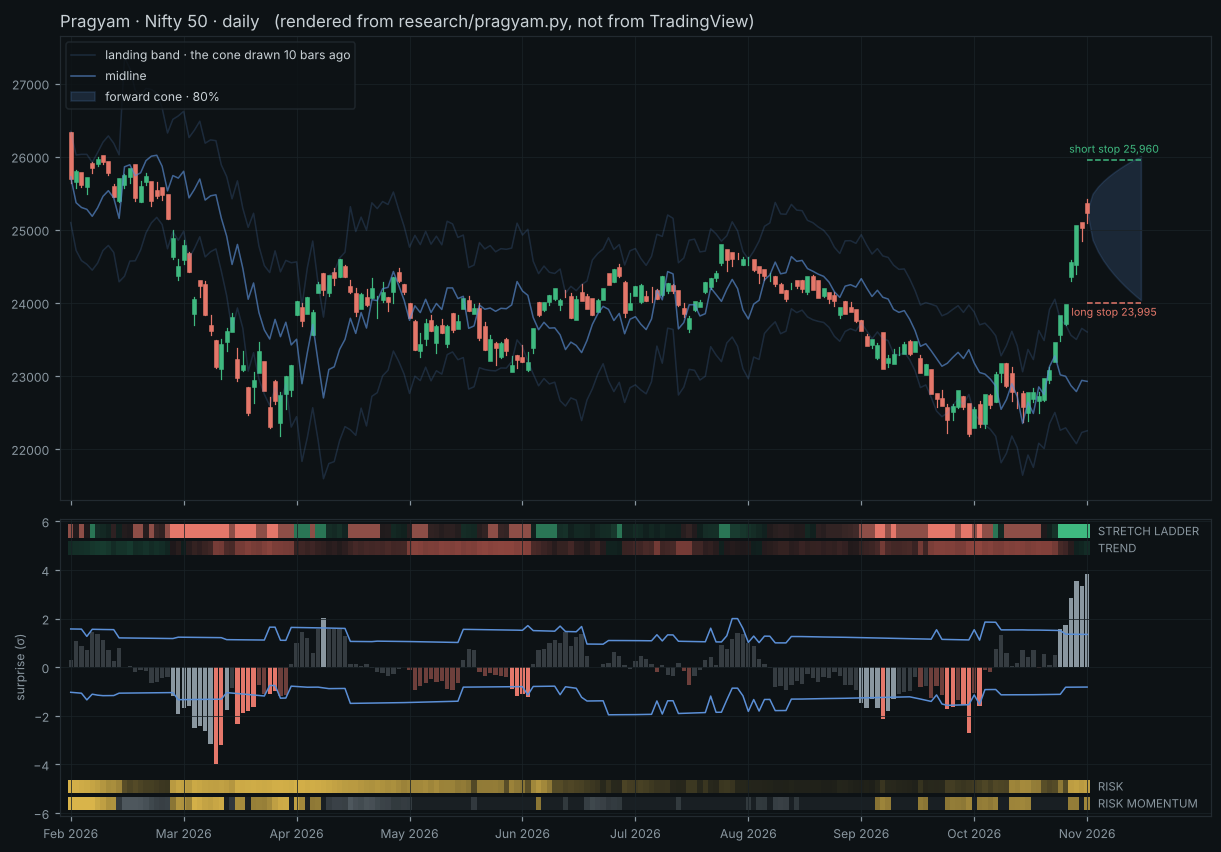
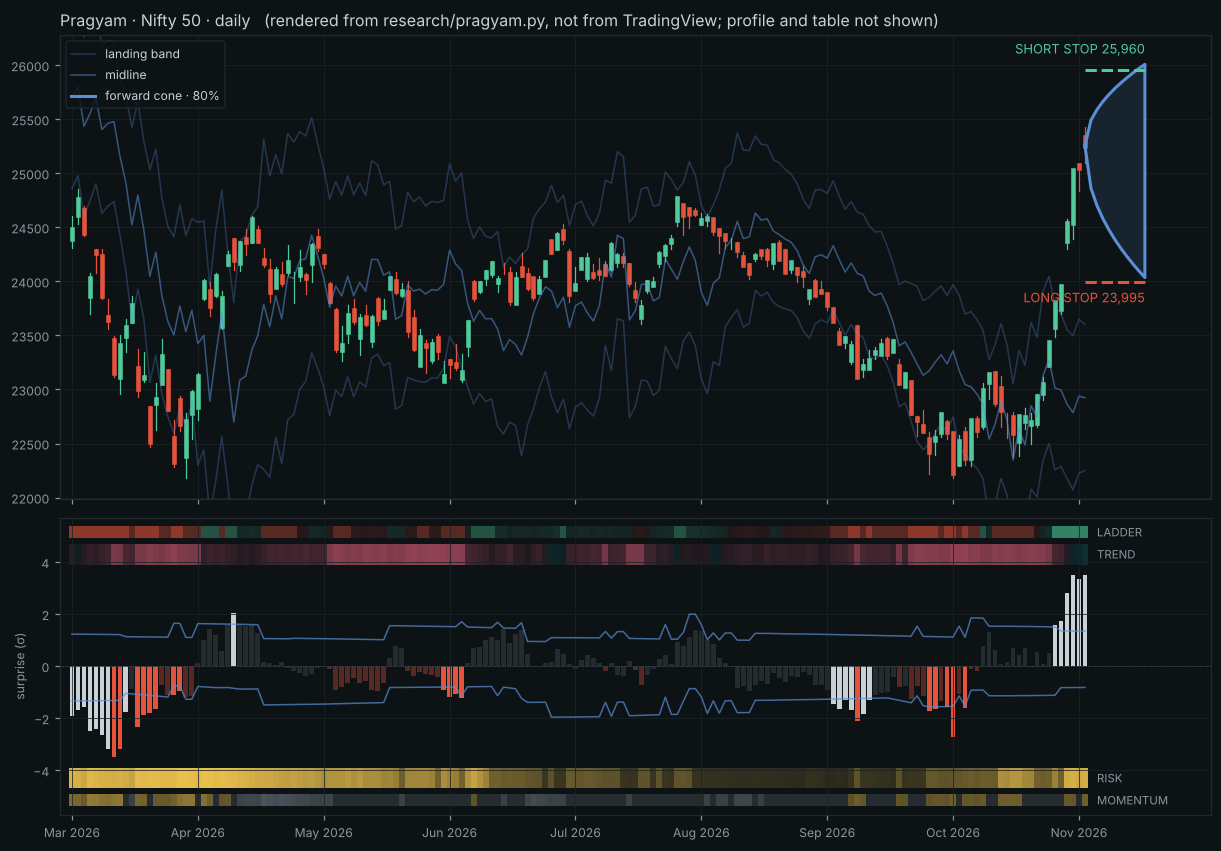
Pragyam v2.5: UI audit, part 2 - the colour system
From the colour-system review (WCAG contrast, CIEDE2000 under normal,
deutan and protan vision):

- Trend tape has its own hues - teal up, crimson down. Its former deep
  green/red could not be told from fainter bright ones on the adjacent
  ladder tape, because tone and transparency used the same channel.
- Green and red re-chosen to differ in lightness as well as hue, so they
  hold under red-green colour blindness; gold moved away from both.
- The volume profile is one grey family told apart by lightness (POC
  strongest, value area mid, tails faint). Its blue was byte-identical to
  the cone's and its amber POC sat on the risk gold. VWAP stays rose.
- One transparency ladder everywhere: 0 solid, 40 committed, 65 quiet,
  80 faint, 90 warming (always grey).
- A flat trend is grey in text; the proof's exposure line is no longer
  drawn in the cone's blue; faint lines raised above the point where they
  vanished.

Header, README and preview updated to the audited design. No engine
number changed. Not compiled in TradingView.

Claude-Session: https://claude.ai/code/session_016ViFoTstK1H2EPMC9V8JSo

diff --git a/research/preview.py b/research/preview.py
@@ -1,4 +1,4 @@
-"""Draws what pragyam.pine draws, from the reference implementation.  python3 preview.py"""
+"""Draws what pragyam.pine draws, from the reference implementation (the volume profile and table are not drawn).  python3 preview.py"""
 from lib import *
 from pragyam import run
 import warnings; warnings.filterwarnings("ignore")
@@ -6,11 +6,13 @@ import matplotlib; matplotlib.use("Agg")
 import matplotlib.pyplot as plt
 from matplotlib.colors import to_rgba
 D = load(); H = 10
-BG, FG, CONE, UP, DN, NE, GOLD, UPD, DND = "#0D1215", "#C9D1D6", "#5B8FD6", "#3FB980", "#E4776A", "#8A97A0", "#D9B44A", "#2A8660", "#B4554B"
-def grad(x, a, b, c, ta, tb):                                              # colour c, transparency ta -> tb as x runs a -> b (Pine's from_gradient)
-    f = min(max((x - a) / (b - a), 0), 1); return to_rgba(c, 1 - (ta + (tb - ta) * f) / 100)
+BG, TEXT, CONE, UP, DN, UPD, DND, NE, GOLD = "#0D1215", "#C9D1D6", "#5B8FD6", "#4FCB9B", "#E5533C", "#1A9498", "#B85068", "#8A97A0", "#F0C54E"   # the script's dark palette
+SOLID, FIRM, QUIET, FAINT, WARM = 0, 40, 65, 80, 90                                                                                      # its transparency ladder
+CLIP, TY, TH, OY, OH = 3.5, 4.3, 0.40, 5.15, 0.22
+def tr(c, t): return to_rgba(c, 1 - t / 100)
+def grad(x, a, b, c, ta, tb): f = min(max((x - a) / (b - a), 0), 1); return tr(c, ta + (tb - ta) * f)
 for sym, title in (("_NSEI", "Nifty 50 · daily"), ("AAPL", "Apple · daily")):
-    cls, d = D[sym]; R = run(d); n = 190; d2, R2 = d.iloc[-n:], R.iloc[-n:]; x = np.arange(n)
+    cls, d = D[sym]; R = run(d); n = 170; d2, R2 = d.iloc[-n:], R.iloc[-n:]; x = np.arange(n)
     fig, ax = plt.subplots(2, 1, figsize=(13.5, 9.2), sharex=True, gridspec_kw=dict(height_ratios=[2.5, 1.6], hspace=0.05), facecolor=BG)
     for a in ax:
         a.set_facecolor(BG); a.tick_params(colors=NE, labelsize=8); [s.set_color("#222a30") for s in a.spines.values()]; a.grid(color="#1a2227", lw=0.5)
@@ -18,28 +20,34 @@ for sym, title in (("_NSEI", "Nifty 50 · daily"), ("AAPL", "Apple · daily")):
     for i in range(n):
         o, h, l, c = d2.open.iloc[i], d2.high.iloc[i], d2.low.iloc[i], d2.close.iloc[i]; col = UP if c >= o else DN
         a.plot([i, i], [l, h], color=col, lw=0.8); a.plot([i, i], [min(o, c), max(o, c)], color=col, lw=3)
-    a.plot(x, R.upper.shift(H).iloc[-n:], color=CONE, lw=1, alpha=.2, label="landing band · the cone drawn 10 bars ago"); a.plot(x, R.lower.shift(H).iloc[-n:], color=CONE, lw=1, alpha=.2)
-    a.plot(x, ((R.upper.shift(H) + R.lower.shift(H)) / 2).iloc[-n:], color=CONE, lw=1, alpha=.65, label="midline")
-    c, sg, qu, qd = d2.close.iloc[-1], R2.sig.iloc[-1], R2.qU.iloc[-1], R2.qD.iloc[-1]; j = np.arange(H + 1)
-    a.fill_between(n - 1 + j, c * np.exp(-qd * sg * np.sqrt(j)), c * np.exp(qu * sg * np.sqrt(j)), color=CONE, alpha=.18, label="forward cone · 80%")
-    a.plot([n - 1, n - 1 + H], [R2.stopL.iloc[-1]] * 2, color=DN, ls="--", lw=1); a.plot([n - 1, n - 1 + H], [R2.stopS.iloc[-1]] * 2, color=UP, ls="--", lw=1)
-    a.text(n - 1 + H / 2, R2.stopS.iloc[-1], f"short stop {R2.stopS.iloc[-1]:,.0f}\n", color=UP, fontsize=7, ha="center", va="bottom", linespacing=.5); a.text(n - 1 + H / 2, R2.stopL.iloc[-1], f"\nlong stop {R2.stopL.iloc[-1]:,.0f}", color=DN, fontsize=7, ha="center", va="top", linespacing=.5)
-    a.legend(loc="upper left", fontsize=8, facecolor=BG, edgecolor="#222a30", labelcolor=FG); a.set_title(f"Pragyam · {title}   (rendered from research/pragyam.py, not from TradingView)", color=FG, fontsize=11, loc="left")
-    a = ax[1]; ts = np.where(R2["T"] > .5, 2, np.where(R2["T"] < -.5, 0, 1)); wth = ((R2.u >= 0) & (ts == 2)) | ((R2.u < 0) & (ts == 0)); tr = np.where(wth, np.where(R2.u >= 0, UP, DN), NE); out = ((R2.mU == 1) | (R2.mD == 1)).values; uu = R2.u.clip(-4, 4)
-    a.bar(x[~out & wth.values], uu[~out & wth.values], color=tr[~out & wth.values], alpha=.45); a.bar(x[~out & ~wth.values], uu[~out & ~wth.values], color=NE, alpha=.32); a.bar(x[out], uu[out], color=tr[out])
-    a.plot(x, R.qU.shift(H).iloc[-n:], color=CONE, lw=1); a.plot(x, -R.qD.shift(H).iloc[-n:], color=CONE, lw=1)
-    TY, MY, TH = 4.9, 5.6, 0.28
+    up_, lo_ = R.upper.shift(H).iloc[-n:], R.lower.shift(H).iloc[-n:]
+    a.plot(x, up_, color=tr(CONE, 70), lw=1, label="landing band"); a.plot(x, lo_, color=tr(CONE, 70), lw=1); a.plot(x, (up_ + lo_) / 2, color=tr(CONE, 45), lw=1, label="midline")
+    c, sg, qu, qd = d2.close.iloc[-1], R2.sig.iloc[-1], R2.qU.iloc[-1], R2.qD.iloc[-1]; j = np.arange(H + 1); x0 = n - 1
+    a.fill_between(x0 + j, c * np.exp(-qd * sg * np.sqrt(j)), c * np.exp(qu * sg * np.sqrt(j)), color=tr(CONE, 86), lw=0)
+    a.plot(np.r_[x0 + j, (x0 + j)[::-1], x0], np.r_[c * np.exp(qu * sg * np.sqrt(j)), (c * np.exp(-qd * sg * np.sqrt(j)))[::-1], c], color=CONE, lw=2, label="forward cone · 80%")
+    sl, ss = R2.stopL.iloc[-1], R2.stopS.iloc[-1]; top, bot = max(ss, R2.upper.iloc[-1]), min(sl, R2.lower.iloc[-1])
+    a.plot([x0, x0 + H], [sl, sl], color=DN, ls="--", lw=2); a.plot([x0, x0 + H], [ss, ss], color=UP, ls="--", lw=2)
+    a.annotate(f"SHORT STOP {ss:,.0f}", (x0 + H, top), xytext=(0, 5), textcoords="offset points", color=UP, fontsize=8.5, ha="right", va="bottom")
+    a.annotate(f"LONG STOP {sl:,.0f}", (x0 + H, bot), xytext=(0, -5), textcoords="offset points", color=DN, fontsize=8.5, ha="right", va="top")
+    a.legend(loc="upper left", fontsize=8, facecolor=BG, edgecolor="#222a30", labelcolor=TEXT)
+    a.set_title(f"Pragyam · {title}   (rendered from research/pragyam.py, not from TradingView; profile and table not shown)", color=TEXT, fontsize=10.5, loc="left")
+    lo, hi = min(d2.low.min(), bot), max(d2.high.max(), top); a.set_ylim(lo - (hi - lo) * .05, hi + (hi - lo) * .07)
+    a = ax[1]; u = R2.u.values; T = R2["T"].values; bU = R.qU.shift(H).iloc[-n:].values; bD = R.qD.shift(H).iloc[-n:].values; sgH = R.sig.shift(H).iloc[-n:].values
     for i in range(n):
-        T, lx, up, dn, pr, rm = R2["T"].iloc[i], R2.ladX.iloc[i], R2.ladUp.iloc[i], R2.ladDn.iloc[i], R2.prk.iloc[i], np.log(R2.sig.iloc[i] / R.sig.shift(H).iloc[-n:].iloc[i])
-        hue = UPD if T >= 0 else DND; ct = grad(abs(T), 0, .5, hue, 90, 62) if abs(T) < .5 else grad(abs(T), .5, 1.5, hue, 40, 0)
-        if np.isnan(lx): cl = to_rgba(NE, .18)
-        else:
-            hue = UP if lx >= 0 else DN; k = up if lx >= 0 else dn; cl = to_rgba(hue, 1) if k >= 3 else to_rgba(hue, .6) if k >= 1 else grad(abs(lx), 0, 1, hue, 92, 66)
-        cr = to_rgba(NE, .18) if np.isnan(pr) else grad(pr, 0, 100 / 3, GOLD, 95, 86) if pr < 100 / 3 else grad(pr, 200 / 3, 100, GOLD, 40, 0) if pr >= 200 / 3 else grad(pr, 100 / 3, 200 / 3, GOLD, 80, 62)
-        cm = grad(abs(rm), .1, .4, GOLD, 40, 0) if rm > .1 else grad(abs(rm), .1, .4, NE, 72, 48) if rm < -.1 else to_rgba(NE, .10)
-        for yy, cc in ((TY, ct), (MY, cl), (-TY, cr), (-MY, cm)): a.bar(i, 2 * TH, bottom=yy - TH, color=cc, width=1.0)
-    for yy, t in ((MY, "STRETCH LADDER"), (TY, "TREND"), (-TY, "RISK"), (-MY, "RISK MOMENTUM")): a.text(n + 1, yy, t, color=NE, fontsize=7.5, va="center")
-    a.set_ylim(-6.1, 6.1); a.set_ylabel("surprise (σ)", color=NE, fontsize=8); a.set_xlim(-2, n + 22); ax[0].set_xlim(-2, n + 22)
+        if not np.isnan(u[i]):                                             # columns: opacity is the event, hue is whether the trend backs it
+            ts = 2 if T[i] > .5 else 0 if T[i] < -.5 else 1; wth = (u[i] >= 0 and ts == 2) or (u[i] < 0 and ts == 0); out = R2.mU.iloc[i] or R2.mD.iloc[i]; hue = (UP if u[i] >= 0 else DN) if wth else NE
+            a.bar(i, np.clip(u[i], -CLIP, CLIP), color=tr(hue if wth else TEXT, SOLID) if out else tr(hue, QUIET if wth else FAINT), width=.8)
+        t = T[i]; ta = abs(t); th = UPD if t >= 0 else DND
+        ct = tr(NE, WARM) if np.isnan(t) else grad(ta, 0, .5, th, WARM, QUIET) if ta < .5 else grad(ta, .5, 1.5, th, FIRM, SOLID)
+        lx = R2.ladX.iloc[i]; ok = not np.isnan(lx); k = (R2.ladUp.iloc[i] if lx >= 0 else R2.ladDn.iloc[i]) if ok else 0; lh = UP if (ok and lx >= 0) else DN
+        cl = tr(NE, WARM) if not ok else tr(lh, FIRM) if k >= 3 else tr(lh, QUIET) if k >= 1 else grad(abs(lx), 0, 1, lh, WARM, FAINT)
+        pr = R2.prk.iloc[i]; rm = np.log(R2.sig.iloc[i] / sgH[i])
+        cr = tr(NE, WARM) if np.isnan(pr) else grad(pr, 200 / 3, 100, GOLD, FIRM, SOLID) if pr >= 200 / 3 else grad(pr, 100 / 3, 200 / 3, GOLD, QUIET, 55) if pr >= 100 / 3 else grad(pr, 0, 100 / 3, GOLD, WARM, FAINT)
+        cm = tr(NE, WARM) if np.isnan(rm) else grad(abs(rm), .1, .4, GOLD, QUIET, FIRM) if rm > .1 else grad(abs(rm), .1, .4, NE, QUIET, 50) if rm < -.1 else tr(NE, FAINT)
+        for yy, hh, cc in ((TY, TH, ct), (OY, OH, cl), (-TY, TH, cr), (-OY, OH, cm)): a.bar(i, 2 * hh, bottom=yy - hh, color=cc, width=1.0)
+    a.plot(x, np.minimum(bU, CLIP), color=tr(CONE, 30), lw=1); a.plot(x, np.maximum(-bD, -CLIP), color=tr(CONE, 30), lw=1); a.axhline(0, color=tr(NE, 55), lw=.6, ls=":")
+    for yy, t in ((OY, "LADDER"), (TY, "TREND"), (-TY, "RISK"), (-OY, "MOMENTUM")): a.text(n + 1, yy, t, color=NE, fontsize=7.5, va="center")
+    a.set_ylim(-5.7, 5.7); a.set_ylabel("surprise (σ)", color=NE, fontsize=8); a.set_xlim(-2, n + 20); ax[0].set_xlim(-2, n + 20)
     k = np.arange(0, n, 21); a.set_xticks(k); a.set_xticklabels([d2.index[i].strftime("%b %Y") for i in k])
     fig.savefig(f"../docs/preview_{sym.strip('_').lower()}.png", dpi=110, bbox_inches="tight", facecolor=BG); plt.close(fig)
 print("ok")

diff --git a/README.md b/README.md
@@ -124,36 +124,62 @@ VWAP is the one place something showed up, and it points the other way from a tr
 - **Calibration is a long-run frequency.** Inside one shock the cone can miss several bars running.
 - **The stocks are today's large caps.** That flatters buy and hold and the dial alike. Indices, commodities, FX and bonds carry no such bias.
 
-### The palette, by meaning (v2.4)
+### The interface, as audited (v2.5)
+
+Four review passes (hierarchy against what was measured, the colour system, layout and mobile, wording) and one finished surface.
+
+**Weight follows evidence**, loudest first:
+
+1. The forward cone (2 px) and the two stops (solid): calibrated.
+2. A surprise column that left the landing band: always solid.
+3. Trend and risk, the inner tapes: the cone and exposure read them.
+4. Columns inside the band; the stretch ladder and risk momentum, thinner and never solid: context.
+5. The midline, then the landing band's edges: description.
+6. The volume profile: display only, one grey family, narrow, its lines stopping at the last bar.
+7. Ledger marks: rare and faint.
+
+**The palette, by meaning:**
 
 | Colour | Means | Where |
 |---|---|---|
-| Green / red, bright | direction on the short horizon | surprise columns (only when the trend agrees), stretch ladder |
-| Green / red, deep | direction on the long horizon | trend tape |
-| Grey | no direction: flat trend, a move the trend does not back, falling risk, warming | columns, tapes |
-| Gold | risk, and only risk | both risk tapes, faint to solid |
-| Blue | the cone | learned bands in the pane; forward cone, landing band and midline on the chart |
+| Green / red | direction on the short horizon | columns (only when the trend backs the move), stretch ladder, text |
+| Teal / crimson | direction on the long horizon | trend tape |
+| Grey | no direction, no reading | flat trend, an unbacked move, falling risk, warming |
+| Gold | risk, and only risk | both risk tapes; calm is the absence of gold |
+| Blue | the cone family, and only it | landing band, forward cone, midline |
+| Greys by lightness | the volume profile | POC strongest, value area mid, tails faint; VWAP stays rose |
+
+What the colour pass found and fixed:
+
+- The trend tape's "deep" green and red could not be told from fainter bright ones on the tape beside it, so trend now has its own hues.
+- Red and green were nearly equal in lightness; they were re-chosen so they hold under red-green colour blindness.
+- The profile's value-area blue was the cone's blue, and its amber POC sat on top of the risk gold. The profile is now grey.
+- One transparency ladder everywhere: 0 solid, 40 committed, 65 quiet, 80 faint, 90 warming.
+
+**Layout:** the stops stay on screen (two invisible points anchor the price scale) and are named at the cone's far corner; the profile is 14 bars wide so the right edge fits a phone; the band and columns are clipped at ±3.5 so nothing stretches the pane.
+
+**Words:** one name each (exposure, landing band, surprise for the number, miss for a close outside the band). Settings run Display, Forecast, Exposure, Advanced, Volume profile.
 
 ### How to read it
 
 | Where | What | Read it as |
 |---|---|---|
 | Price chart | Forward cone | where the close should be H bars from now |
-| Price chart | Dashed lines across the cone | long and short stops at the stated touch probability |
-| Price chart | Midline (one pixel, cone blue) | the average of the landing band; where price stands against H bars ago. A description, not a signal |
+| Price chart | Dashed lines across the cone | long and short stops at the stated touch probability, each named at the cone's far corner |
+| Price chart | Midline (one pixel, cone blue) | the middle of the landing band; where price stands against H bars ago. A description, not a signal |
 | Price chart | Landing band (faint) | the cone drawn H bars ago; a close outside it is a surprise |
 | Price chart | Volume profile | Pragati's, carried in whole: session histogram, POC, value area, VWAP, Initial Balance, prior-session levels, naked POCs. Display only; it sits to the right of the cone |
-| Pane | Columns against two lines | the realised move ÷ the forecast made H bars ago. Coloured when the trend backs the move (green up in an uptrend, red down in a downtrend), grey otherwise; solid when the close left the cone |
-| Pane | Four tapes | trend and stretch ladder above; risk and risk momentum below |
-| Pane · Proof view | Two lines | following the dial against buy and hold on this chart |
-| Table (off by default) | Eight short rows | cone, stops and size, the position to hold, risk, trend, this chart's record, Sharpe against buy and hold. Detail is in each row's tooltip |
+| Pane | Columns against the landing band | the surprise: the realised move ÷ the forecast made H bars ago. Solid when the close left the band (a miss); green or red when the trend backs the move, neutral when it does not |
+| Pane | Four tapes | trend (teal / crimson) with the thin stretch ladder above it; risk (gold) with thin risk momentum below it |
+| Pane · Proof view | Two lines | following exposure against buy and hold on this chart |
+| Table (off by default) | Eight short rows | cone, long stop and size, short stop and size, exposure, this chart's record, risk, trend, Sharpe against buy and hold |
 | Status line | One value | the surprise |
 
 Gold always means risk, never up or down.
 
 ### Status
 
-- **v2.4** renames the script to Pragyam and sets the palette by meaning; **v2.3** closed the presentation (status line, line weights, column colours, compact table) and tests two more observations; **v2.2** added the midline and its record; **v2.1** added the volume profile. No engine number changed from v2.0. The preview image does not show the profile.
+- **v2.5** is the UI audit above; **v2.4** renamed the script to Pragyam and first set the palette by meaning; **v2.3** closed the presentation (status line, line weights, column colours, compact table) and tests two more observations; **v2.2** added the midline and its record; **v2.1** added the volume profile. No engine number changed from v2.0. The preview image does not show the profile.
 - A later experiment ("Maryada": touch probabilities on profile levels, unified tapes, Pragati's palette) was set aside; it remains in the git history at commit `7c5340a`.
 - The Pine script has **not been compiled in TradingView**. No Pine compiler is available here; it was checked by hand against the reference implementation. Expect to fix a syntax detail or two on first load.
 - The Python reference and the Pine script were written to the same arithmetic but have not been compared bar for bar.
